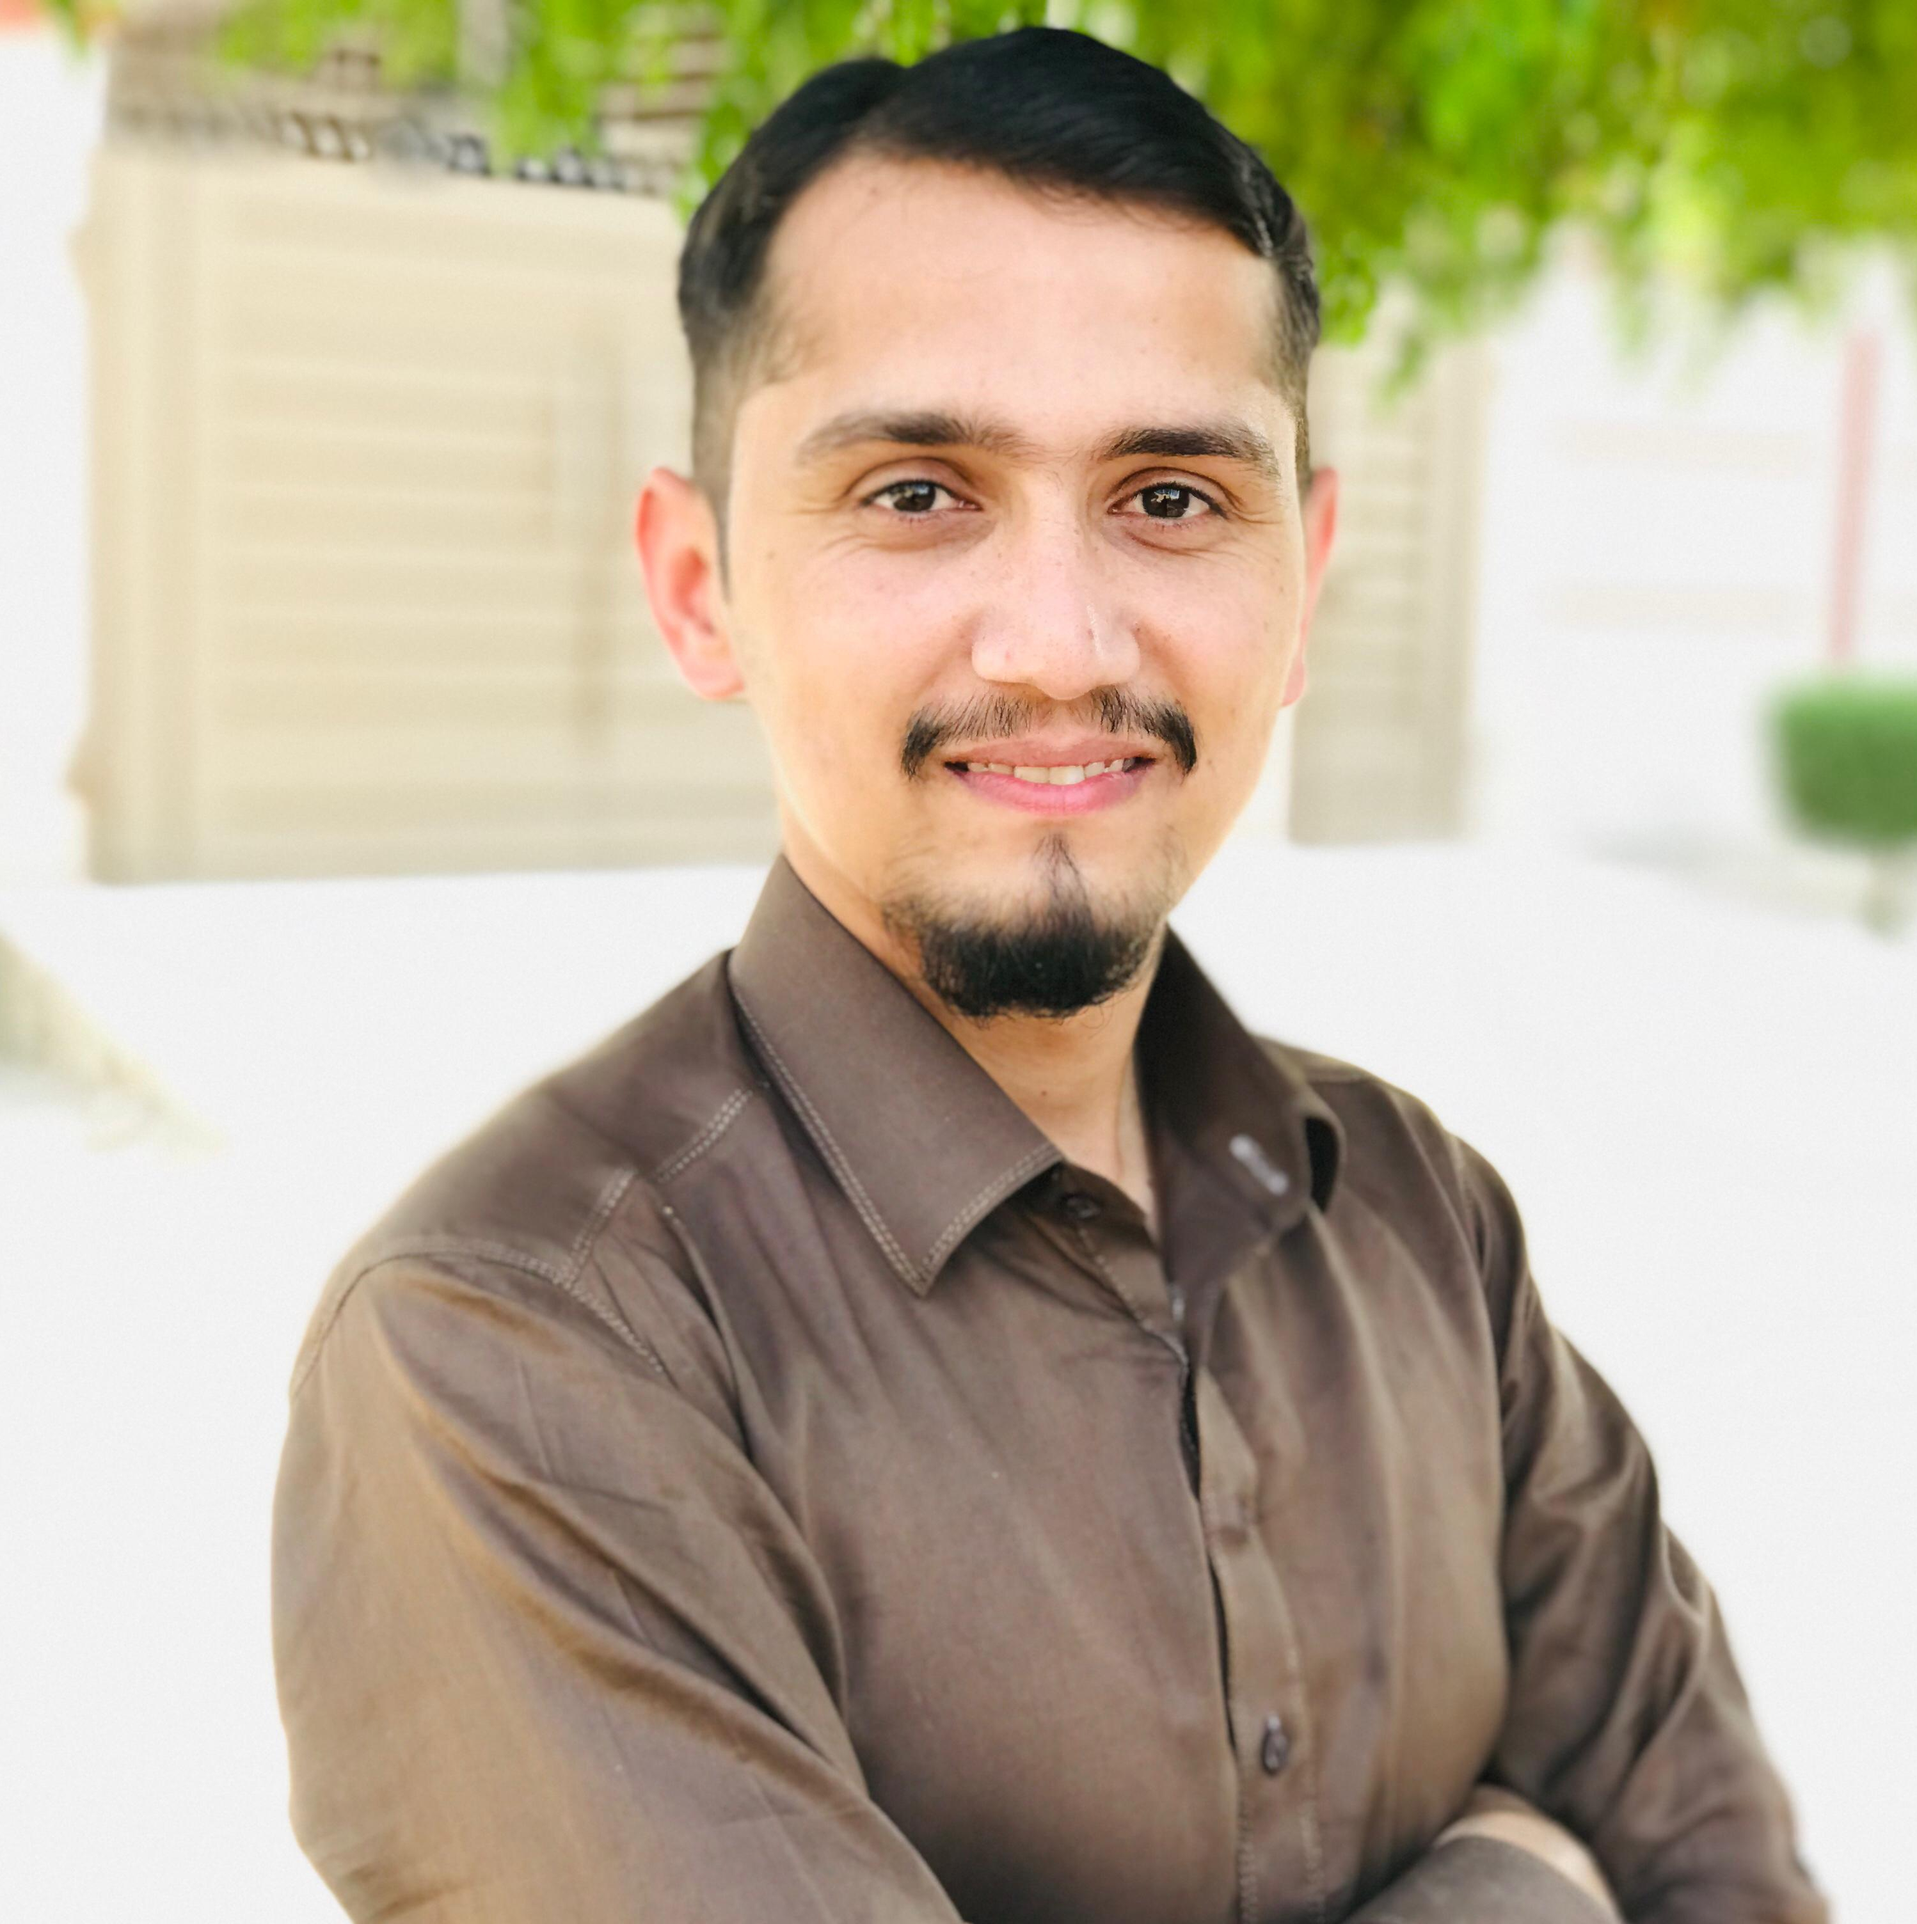
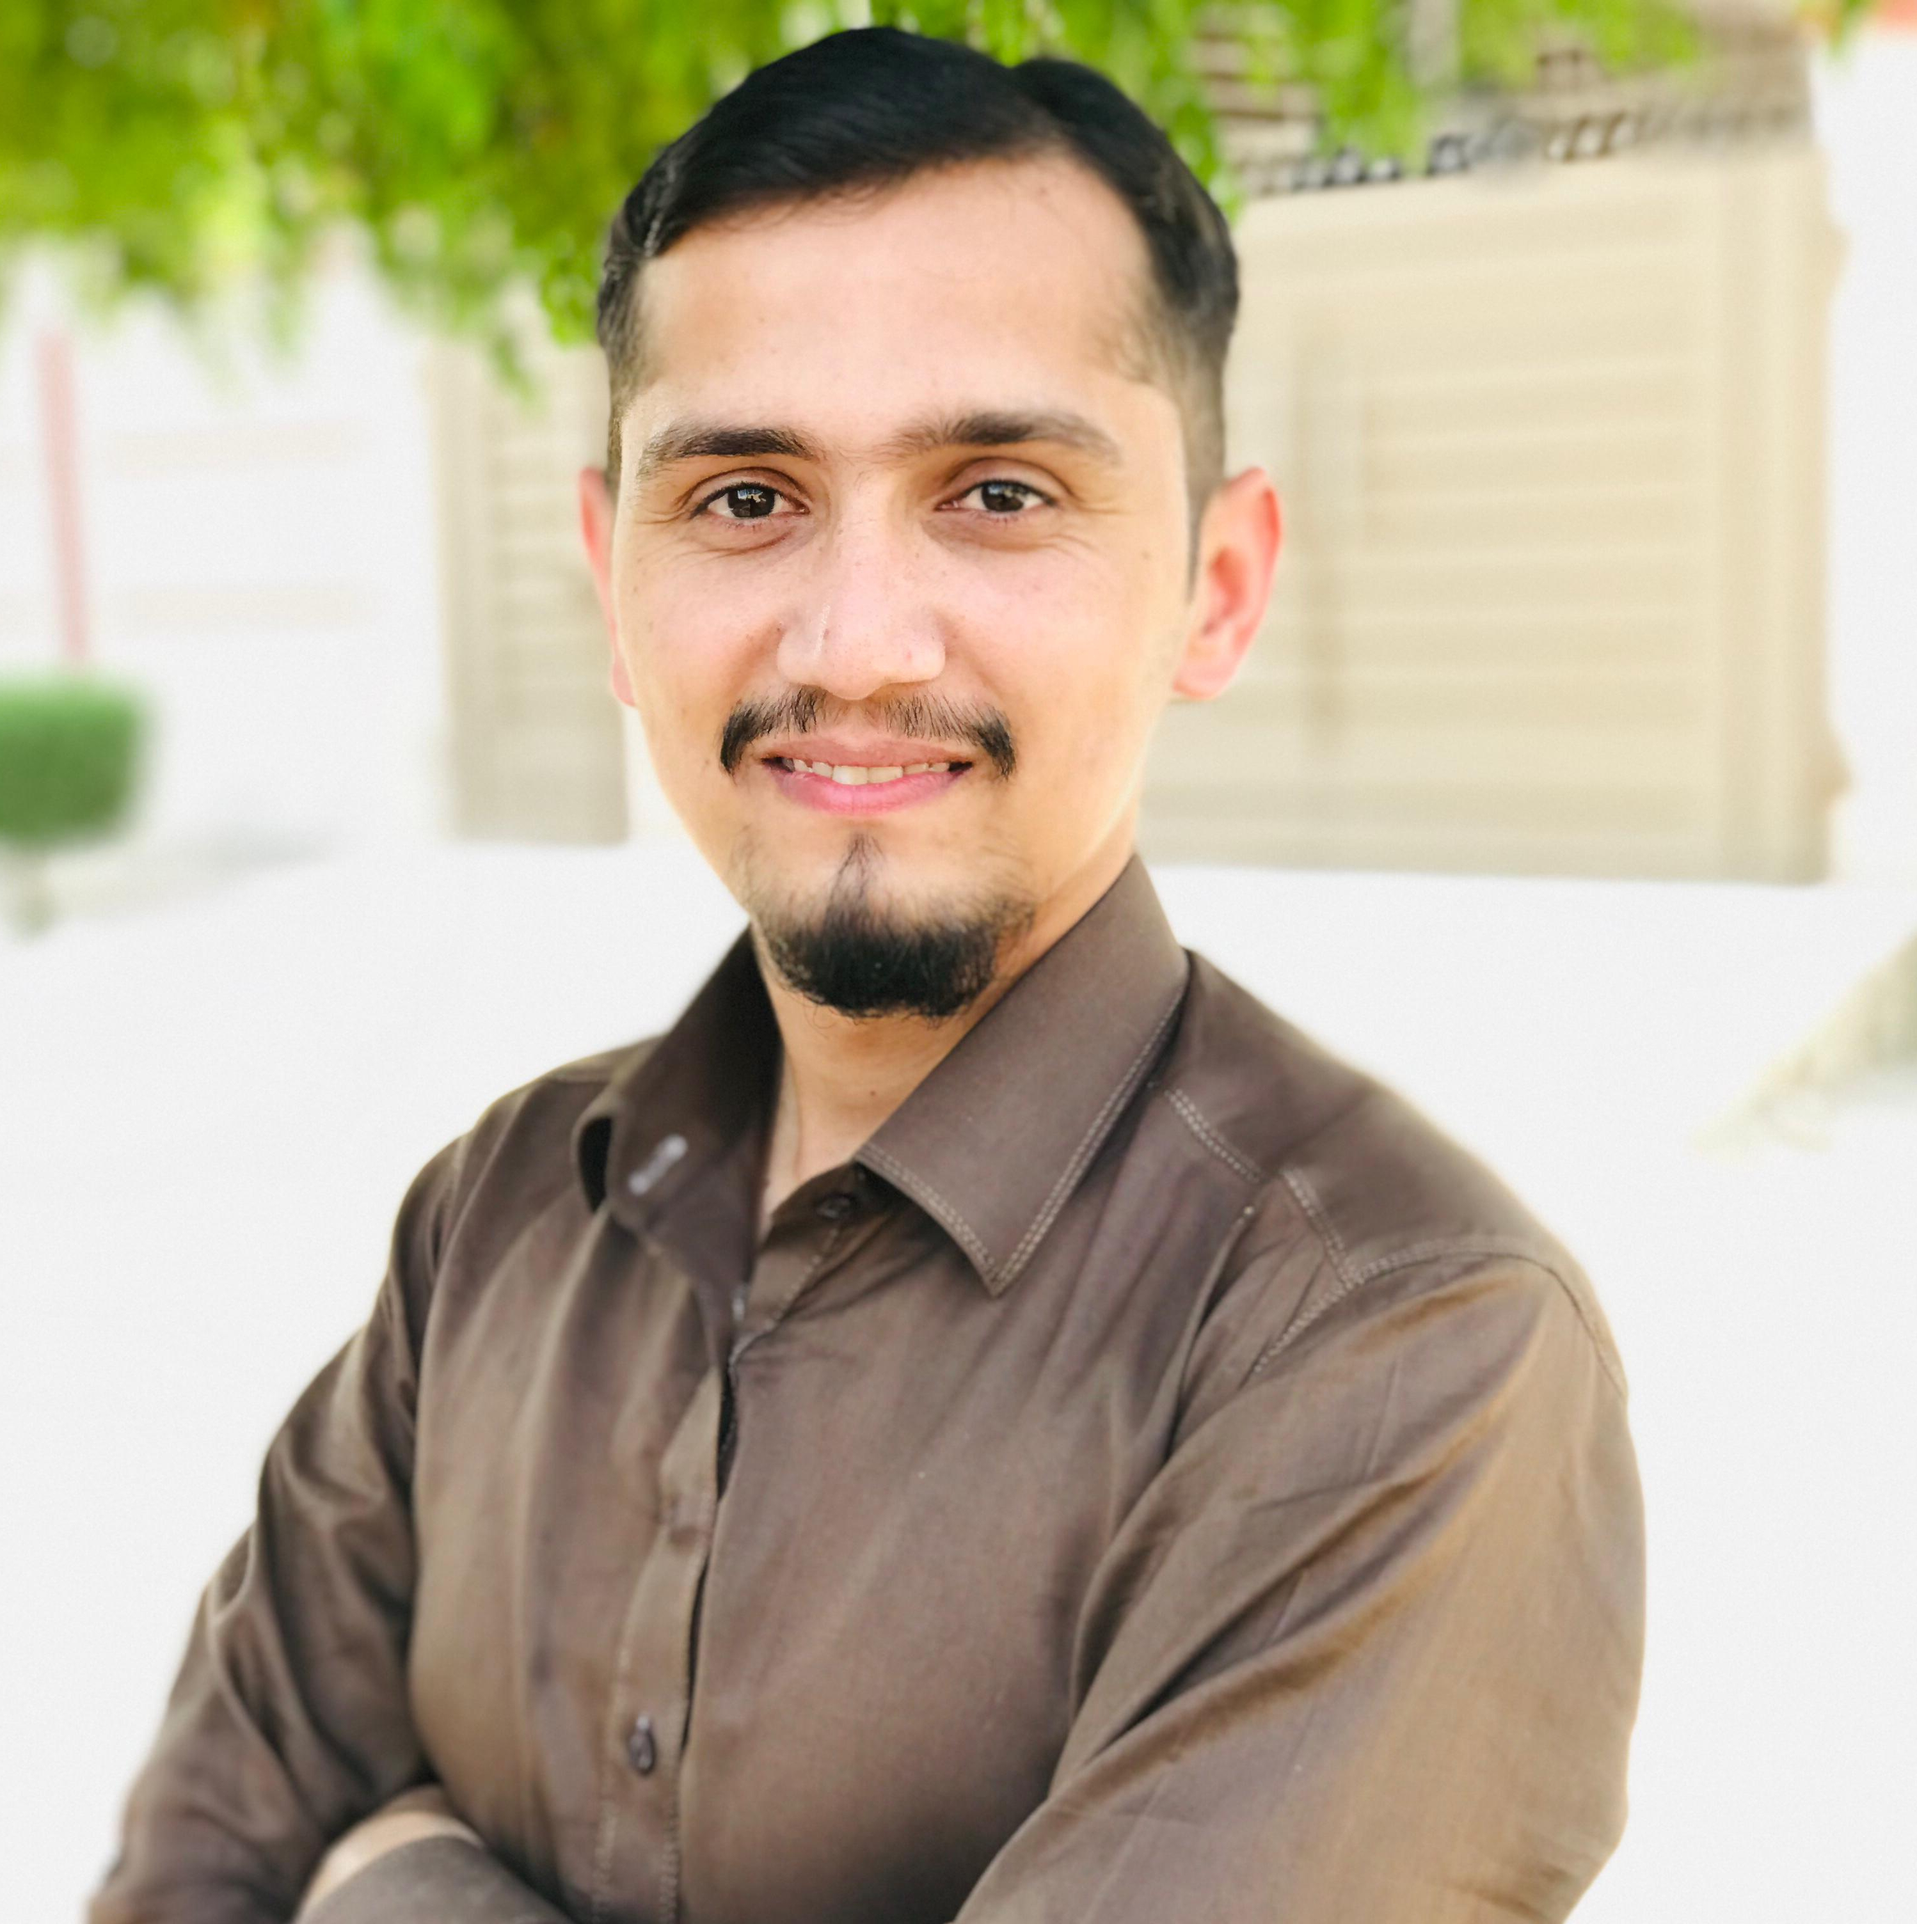
change-2
mirror picture.

diff --git a/index.html b/index.html
@@ -280,7 +280,7 @@
             <p class="text-lg sm:text-xl mt-2">Medical Billing Expert</p>
             <p class="mt-4 text-sm sm:text-base max-w-md py-3">Transforming medical billing processes to ensure accuracy and compliance.</p>
             <div class="mt-6 flex space-x-4 justify-center sm:justify-start">
-                <a href="mailto:abdulbasitjaved140@gmail.com" class="btn-animated bg-green-700 text-white px-4 sm:px-6 py-2 sm:py-3 rounded-full hover:bg-green-800 text-sm sm:text-base">Contact Me</a>
+                <a href="mailto:abdulbasitjaved4140@gmail.com" class="btn-animated bg-green-700 text-white px-4 sm:px-6 py-2 sm:py-3 rounded-full hover:bg-green-800 text-sm sm:text-base">Contact Me</a>
             </div>
         </div>
         <div class="w-full sm:w-1/2 flex justify-center sm:justify-end px-4 sm:px-6 mt-6 sm:mt-0 order-1 sm:order-2">
@@ -312,8 +312,13 @@
 
     <section id="education" class="py-6 sm:py-12 lg:py-20 text-center">
         <h2 class="text-2xl sm:text-3xl font-bold mb-4 sm:mb-6">Educational Background</h2>
-        <p class="text-base sm:text-lg mb-4 sm:mb-6 max-w-md sm:max-w-3xl mx-auto">My academic journey and continuous learning in software engineering and web development</p>
+        <p class="text-base sm:text-lg mb-4 sm:mb-6 max-w-md sm:max-w-3xl mx-auto">My academic journey and continuous learning.</p>
         <div class="grid grid-cols-1 sm:grid-cols-2 gap-4 sm:gap-6 px-2 sm:px-4">
+            <div class="bg-gray-800 p-4 sm:p-6 rounded-lg grid-card">
+                <h3 class="text-lg sm:text-xl font-semibold mb-2">Internship</h3>
+                <p class="text-sm sm:text-base">Integrity RCM LLC (2024-2025), Lahore, Pakistan</p>
+                <p class="text-sm sm:text-base">Medical Billing Specialist</p>
+            </div>
             <div class="bg-gray-800 p-4 sm:p-6 rounded-lg grid-card">
                 <h3 class="text-lg sm:text-xl font-semibold mb-2">Medical Billing</h3>
                 <p class="text-sm sm:text-base">Integrity RCM LLC (2024-2025), Lahore, Pakistan</p>
@@ -469,7 +474,7 @@
             <div class="flex flex-col sm:flex-row justify-center items-center gap-4 sm:gap-6">
                 <div class="flex items-center text-base sm:text-lg">
                     <i class="fas fa-envelope mr-2"></i>
-                    <a href="mailto:abdulbasitjaved140@gmail.com" class="hover:underline">abdulbasitjaved140@gmail.com</a>
+                    <a href="mailto:abdulbasitjaved4140@gmail.com" class="hover:underline">abdulbasitjaved4140@gmail.com</a>
                 </div>
                 <div class="flex items-center text-base sm:text-lg">
                     <i class="fas fa-phone mr-2"></i>
